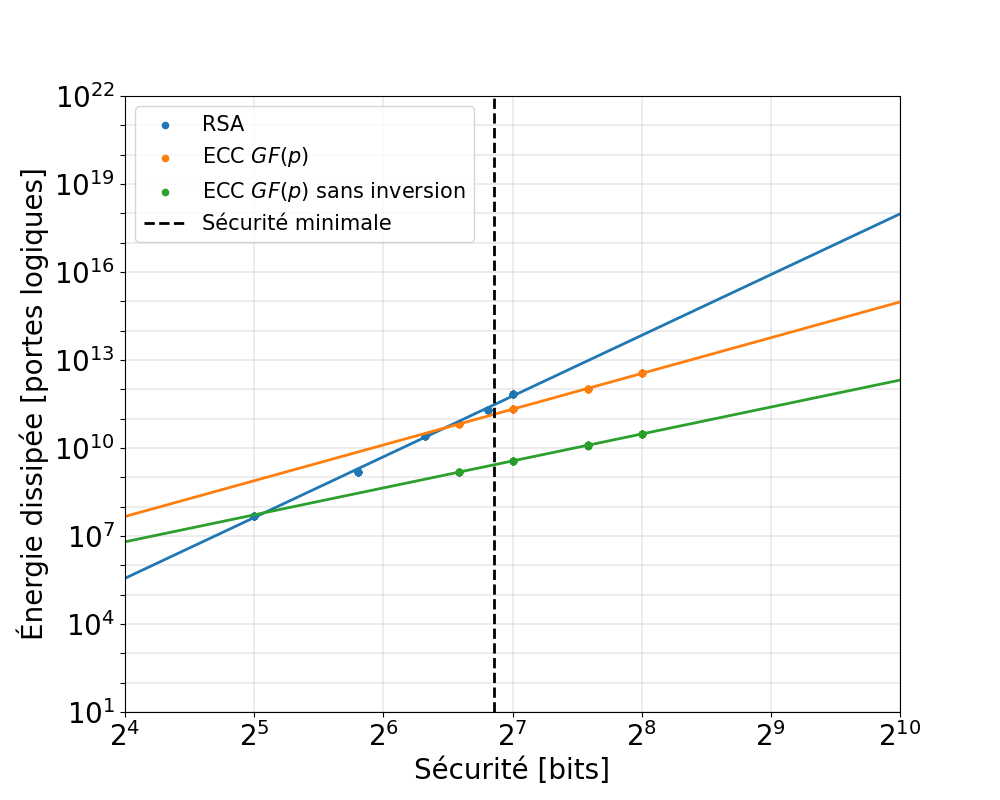
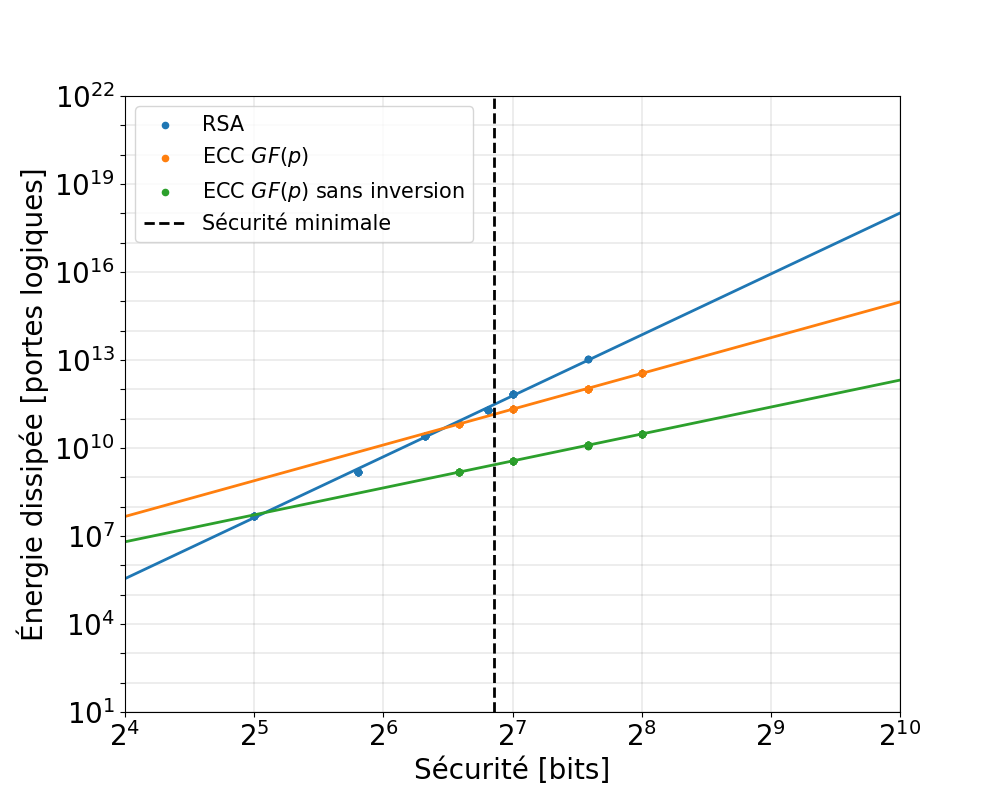
updated data

diff --git a/python_crypto/Essai_figures/rsa_exponent.py b/python_crypto/Essai_figures/rsa_exponent.py
@@ -1,0 +1,54 @@
+from prime_utils import *
+from elliptic_curve import *
+from math import comb
+from graphs import *
+import numpy as np
+
+def get_RSA(n):
+    log_n = n * np.log(2)
+    f1 = (64 / 9) ** (1 / 3)
+    f2 = (log_n) ** (1 / 3)
+    f3 = (np.log(log_n)) ** (2 / 3)
+    f4 = f1 * f2 * f3
+    return int(f4 * np.log2(np.exp(1)))
+
+if __name__ == "__main__":
+    x = []
+    y = [128, 400, 1024, 2044, 3072, 7680, 15360]
+    x_ln = []
+    y_ln = []
+    xx_ln = []
+    xy_ln = []
+
+    for i in range(len(y)):
+        x.append(get_RSA(y[i]))
+        x_ln.append(np.log(x[i]))
+        y_ln.append(np.log(y[i]))
+        #xx_ln.append(x_ln[i]*x_ln[i])
+        #xy_ln.append(x_ln[i]*y_ln[i])
+
+x_ln = np.matrix(x_ln).transpose()
+y_ln = np.matrix(y_ln).transpose()
+m_ones = np.ones(x_ln.shape)
+A = np.concatenate((x_ln, m_ones), 1)
+B = y_ln
+
+x = np.linalg.inv(A.transpose() * A) * A.transpose() * B
+a = x[0]
+b = x[1]
+
+t = np.linspace(x_ln[0,0], x_ln[len(x_ln)-1,0], 100, True)
+z = a*t + b
+
+fontsize = 20
+fig = plt.figure(figsize=(10, 8), dpi=100)
+ax = fig.add_subplot(111)
+ax.scatter(np.squeeze(np.asarray(x_ln)), np.squeeze(np.asarray(y_ln)))
+ax.plot(np.squeeze(np.asarray(t)), np.squeeze(np.asarray(z)))
+plt.show()
+
+print(a)
+print(b)
+
+print(get_RSA(1024))
+print(get_RSA(2044))

diff --git a/python_crypto/Essai_figures/result_power_decryption.py b/python_crypto/Essai_figures/result_power_decryption.py
@@ -147,7 +147,7 @@ def get_axe(base, minimum, maximum):
 
 
 rsa_data_paths = ["./data/rsa_128.txt", "./data/rsa_400.txt", "./data/rsa_1024.txt", "./data/rsa_2044.txt",
-                  "./data/rsa_3072.txt"]
+                  "./data/rsa_3072.txt", "./data/rsa_7680.txt"]
 rsa_size_v, rsa_p_v, rsa_q_v, rsa_n_v, rsa_e_v, rsa_d_v, rsa_m_v, rsa_C_v, rsa_keygen_clock_v, rsa_keygen_regs_v, \
 rsa_keygen_gates_v, rsa_encryption_clock_v, rsa_encryption_regs_v, rsa_encryption_gates_v, rsa_decryption_clock_v, \
 rsa_decryption_regs_v, rsa_decryption_gates_v = get_rsa_data(rsa_data_paths)
@@ -222,7 +222,10 @@ if __name__ == "__main__":
 
     ax.plot([np.log2(get_RSA(2048)), np.log2(get_RSA(2048))], [y_start, y_end], 'k--', linewidth=2, label='Sécurité minimale')
 
-    print(slope_rsa, slope_ecc_p)
+    print("slope_rsa: {}".format(slope_rsa))
+    print("slope_ecc_p: {}".format(slope_ecc_p))
+    print("slope_ecc_p2: {}".format(slope_ecc_p2))
+
 
     ax.legend(fontsize=fontsize * 0.75)
     # ax.set_title(str(curve), fontsize=fontsize)

diff --git a/python_crypto/Essai_figures/result_power_encryption.py b/python_crypto/Essai_figures/result_power_encryption.py
@@ -147,7 +147,7 @@ def get_axe(base, minimum, maximum):
 
 
 rsa_data_paths = ["./data/rsa_128.txt", "./data/rsa_400.txt", "./data/rsa_1024.txt", "./data/rsa_2044.txt",
-                  "./data/rsa_3072.txt"]
+                  "./data/rsa_3072.txt", "./data/rsa_7680.txt"]
 rsa_size_v, rsa_p_v, rsa_q_v, rsa_n_v, rsa_e_v, rsa_d_v, rsa_m_v, rsa_C_v, rsa_keygen_clock_v, rsa_keygen_regs_v, \
 rsa_keygen_gates_v, rsa_encryption_clock_v, rsa_encryption_regs_v, rsa_encryption_gates_v, rsa_decryption_clock_v, \
 rsa_decryption_regs_v, rsa_decryption_gates_v = get_rsa_data(rsa_data_paths)
@@ -222,7 +222,9 @@ if __name__ == "__main__":
 
     ax.plot([np.log2(get_RSA(2048)), np.log2(get_RSA(2048))], [y_start, y_end], 'k--', linewidth=2, label='Sécurité minimale')
 
-    print(slope_rsa, slope_ecc_p)
+    print("slope_rsa: {}".format(slope_rsa))
+    print("slope_ecc_p: {}".format(slope_ecc_p))
+    print("slope_ecc_p2: {}".format(slope_ecc_p2))
 
     ax.legend(fontsize=fontsize * 0.75)
     # ax.set_title(str(curve), fontsize=fontsize)

diff --git a/python_crypto/Essai_figures/result_power_keygen.py b/python_crypto/Essai_figures/result_power_keygen.py
@@ -147,7 +147,7 @@ def get_axe(base, minimum, maximum):
 
 
 rsa_data_paths = ["./data/rsa_128.txt", "./data/rsa_400.txt", "./data/rsa_1024.txt", "./data/rsa_2044.txt",
-                  "./data/rsa_3072.txt"]
+                  "./data/rsa_3072.txt", "./data/rsa_7680.txt"]
 rsa_size_v, rsa_p_v, rsa_q_v, rsa_n_v, rsa_e_v, rsa_d_v, rsa_m_v, rsa_C_v, rsa_keygen_clock_v, rsa_keygen_regs_v, \
 rsa_keygen_gates_v, rsa_encryption_clock_v, rsa_encryption_regs_v, rsa_encryption_gates_v, rsa_decryption_clock_v, \
 rsa_decryption_regs_v, rsa_decryption_gates_v = get_rsa_data(rsa_data_paths)
@@ -221,7 +221,9 @@ if __name__ == "__main__":
 
     ax.plot([np.log2(get_RSA(2048)), np.log2(get_RSA(2048))], [y_start, y_end], 'k--', linewidth=2, label='Sécurité minimale')
 
-    print(slope_rsa, slope_ecc_p)
+    print("slope_rsa: {}".format(slope_rsa))
+    print("slope_ecc_p: {}".format(slope_ecc_p))
+    print("slope_ecc_p2: {}".format(slope_ecc_p2))
 
     ax.legend(fontsize=fontsize * 0.75)
     # ax.set_title(str(curve), fontsize=fontsize)

diff --git a/python_crypto/Essai_figures/result_space_decryption.py b/python_crypto/Essai_figures/result_space_decryption.py
@@ -147,7 +147,7 @@ def get_axe(base, minimum, maximum):
 
 
 rsa_data_paths = ["./data/rsa_128.txt", "./data/rsa_400.txt", "./data/rsa_1024.txt", "./data/rsa_2044.txt",
-                  "./data/rsa_3072.txt"]
+                  "./data/rsa_3072.txt", "./data/rsa_7680.txt"]
 rsa_size_v, rsa_p_v, rsa_q_v, rsa_n_v, rsa_e_v, rsa_d_v, rsa_m_v, rsa_C_v, rsa_keygen_clock_v, rsa_keygen_regs_v, \
 rsa_keygen_gates_v, rsa_encryption_clock_v, rsa_encryption_regs_v, rsa_encryption_gates_v, rsa_decryption_clock_v, \
 rsa_decryption_regs_v, rsa_decryption_gates_v = get_rsa_data(rsa_data_paths)
@@ -222,7 +222,9 @@ if __name__ == "__main__":
 
     ax.plot([np.log2(get_RSA(2048)), np.log2(get_RSA(2048))], [y_start, y_end], 'k--', linewidth=2, label='Sécurité minimale')
 
-    print(slope_rsa, slope_ecc_p)
+    print("slope_rsa: {}".format(slope_rsa))
+    print("slope_ecc_p: {}".format(slope_ecc_p))
+    print("slope_ecc_p2: {}".format(slope_ecc_p2))
 
     ax.legend(fontsize=fontsize * 0.75)
     # ax.set_title(str(curve), fontsize=fontsize)

diff --git a/python_crypto/Essai_figures/result_time_decryption.py b/python_crypto/Essai_figures/result_time_decryption.py
@@ -147,7 +147,7 @@ def get_axe(base, minimum, maximum):
 
 
 rsa_data_paths = ["./data/rsa_128.txt", "./data/rsa_400.txt", "./data/rsa_1024.txt", "./data/rsa_2044.txt",
-                  "./data/rsa_3072.txt"]
+                  "./data/rsa_3072.txt", "./data/rsa_7680.txt"]
 rsa_size_v, rsa_p_v, rsa_q_v, rsa_n_v, rsa_e_v, rsa_d_v, rsa_m_v, rsa_C_v, rsa_keygen_clock_v, rsa_keygen_regs_v, \
 rsa_keygen_gates_v, rsa_encryption_clock_v, rsa_encryption_regs_v, rsa_encryption_gates_v, rsa_decryption_clock_v, \
 rsa_decryption_regs_v, rsa_decryption_gates_v = get_rsa_data(rsa_data_paths)
@@ -222,7 +222,9 @@ if __name__ == "__main__":
 
     ax.plot([np.log2(get_RSA(2048)), np.log2(get_RSA(2048))], [y_start, y_end], 'k--', linewidth=2, label='Sécurité minimale')
 
-    print(slope_rsa, slope_ecc_p)
+    print("slope_rsa: {}".format(slope_rsa))
+    print("slope_ecc_p: {}".format(slope_ecc_p))
+    print("slope_ecc_p2: {}".format(slope_ecc_p2))
 
     ax.legend(fontsize=fontsize * 0.75)
     # ax.set_title(str(curve), fontsize=fontsize)

diff --git a/python_crypto/Essai_figures/result_time_encryption.py b/python_crypto/Essai_figures/result_time_encryption.py
@@ -147,7 +147,7 @@ def get_axe(base, minimum, maximum):
 
 
 rsa_data_paths = ["./data/rsa_128.txt", "./data/rsa_400.txt", "./data/rsa_1024.txt", "./data/rsa_2044.txt",
-                  "./data/rsa_3072.txt"]
+                  "./data/rsa_3072.txt", "./data/rsa_7680.txt"]
 rsa_size_v, rsa_p_v, rsa_q_v, rsa_n_v, rsa_e_v, rsa_d_v, rsa_m_v, rsa_C_v, rsa_keygen_clock_v, rsa_keygen_regs_v, \
 rsa_keygen_gates_v, rsa_encryption_clock_v, rsa_encryption_regs_v, rsa_encryption_gates_v, rsa_decryption_clock_v, \
 rsa_decryption_regs_v, rsa_decryption_gates_v = get_rsa_data(rsa_data_paths)
@@ -221,7 +221,9 @@ if __name__ == "__main__":
 
     ax.plot([np.log2(get_RSA(2048)), np.log2(get_RSA(2048))], [y_start, y_end], 'k--', linewidth=2, label='Sécurité minimale')
 
-    print(slope_rsa, slope_ecc_p)
+    print("slope_rsa: {}".format(slope_rsa))
+    print("slope_ecc_p: {}".format(slope_ecc_p))
+    print("slope_ecc_p2: {}".format(slope_ecc_p2))
 
     ax.legend(fontsize=fontsize * 0.75)
     # ax.set_title(str(curve), fontsize=fontsize)

diff --git a/python_crypto/Essai_figures/result_time_keygen.py b/python_crypto/Essai_figures/result_time_keygen.py
@@ -147,7 +147,7 @@ def get_axe(base, minimum, maximum):
 
 
 rsa_data_paths = ["./data/rsa_128.txt", "./data/rsa_400.txt", "./data/rsa_1024.txt", "./data/rsa_2044.txt",
-                  "./data/rsa_3072.txt"]
+                  "./data/rsa_3072.txt", "./data/rsa_7680.txt"]
 rsa_size_v, rsa_p_v, rsa_q_v, rsa_n_v, rsa_e_v, rsa_d_v, rsa_m_v, rsa_C_v, rsa_keygen_clock_v, rsa_keygen_regs_v, \
 rsa_keygen_gates_v, rsa_encryption_clock_v, rsa_encryption_regs_v, rsa_encryption_gates_v, rsa_decryption_clock_v, \
 rsa_decryption_regs_v, rsa_decryption_gates_v = get_rsa_data(rsa_data_paths)
@@ -222,7 +222,9 @@ if __name__ == "__main__":
 
     ax.plot([np.log2(get_RSA(2048)), np.log2(get_RSA(2048))], [y_start, y_end], 'k--', linewidth=2, label='Sécurité minimale')
 
-    print(slope_rsa, slope_ecc_p)
+    print("slope_rsa: {}".format(slope_rsa))
+    print("slope_ecc_p: {}".format(slope_ecc_p))
+    print("slope_ecc_p2: {}".format(slope_ecc_p2))
 
     ax.legend(fontsize=fontsize * 0.75)
     # ax.set_title(str(curve), fontsize=fontsize)

diff --git a/python_crypto/Essai_figures/result_space_encryption.py b/python_crypto/Essai_figures/result_space_encryption.py
@@ -147,7 +147,7 @@ def get_axe(base, minimum, maximum):
 
 
 rsa_data_paths = ["./data/rsa_128.txt", "./data/rsa_400.txt", "./data/rsa_1024.txt", "./data/rsa_2044.txt",
-                  "./data/rsa_3072.txt"]
+                  "./data/rsa_3072.txt", "./data/rsa_7680.txt"]
 rsa_size_v, rsa_p_v, rsa_q_v, rsa_n_v, rsa_e_v, rsa_d_v, rsa_m_v, rsa_C_v, rsa_keygen_clock_v, rsa_keygen_regs_v, \
 rsa_keygen_gates_v, rsa_encryption_clock_v, rsa_encryption_regs_v, rsa_encryption_gates_v, rsa_decryption_clock_v, \
 rsa_decryption_regs_v, rsa_decryption_gates_v = get_rsa_data(rsa_data_paths)
@@ -221,6 +221,10 @@ if __name__ == "__main__":
 
 
     ax.plot([np.log2(get_RSA(2048)), np.log2(get_RSA(2048))], [y_start, y_end], 'k--', linewidth=2, label='Sécurité minimale')
+
+    print("slope_rsa: {}".format(slope_rsa))
+    print("slope_ecc_p: {}".format(slope_ecc_p))
+    print("slope_ecc_p2: {}".format(slope_ecc_p2))
 
     ax.legend(fontsize=fontsize * 0.75)
     # ax.set_title(str(curve), fontsize=fontsize)

diff --git a/python_crypto/Essai_figures/result_space_keygen.py b/python_crypto/Essai_figures/result_space_keygen.py
@@ -147,7 +147,7 @@ def get_axe(base, minimum, maximum):
 
 
 rsa_data_paths = ["./data/rsa_128.txt", "./data/rsa_400.txt", "./data/rsa_1024.txt", "./data/rsa_2044.txt",
-                  "./data/rsa_3072.txt"]
+                  "./data/rsa_3072.txt", "./data/rsa_7680.txt"]
 rsa_size_v, rsa_p_v, rsa_q_v, rsa_n_v, rsa_e_v, rsa_d_v, rsa_m_v, rsa_C_v, rsa_keygen_clock_v, rsa_keygen_regs_v, \
 rsa_keygen_gates_v, rsa_encryption_clock_v, rsa_encryption_regs_v, rsa_encryption_gates_v, rsa_decryption_clock_v, \
 rsa_decryption_regs_v, rsa_decryption_gates_v = get_rsa_data(rsa_data_paths)
@@ -221,6 +221,10 @@ if __name__ == "__main__":
 
 
     ax.plot([np.log2(get_RSA(2048)), np.log2(get_RSA(2048))], [y_start, y_end], 'k--', linewidth=2, label='Sécurité minimale')
+
+    print("slope_rsa: {}".format(slope_rsa))
+    print("slope_ecc_p: {}".format(slope_ecc_p))
+    print("slope_ecc_p2: {}".format(slope_ecc_p2))
 
     ax.legend(fontsize=fontsize * 0.75)
     # ax.set_title(str(curve), fontsize=fontsize)

diff --git a/python_crypto/Essai_figures/rsa.py b/python_crypto/Essai_figures/rsa.py
@@ -209,10 +209,10 @@ def rsa_15360(tries):
 
 if __name__ == "__main__":
     pass
-    # rsa_128(10)
-    # rsa_400(10)
-    # rsa_1024(10)
-    # rsa_2044(10)
-    # rsa_3072(10)
-    # rsa_7680(10)
-    # rsa_15360(10)
+    rsa_128(10)
+    rsa_400(10)
+    rsa_1024(10)
+    rsa_2044(10)
+    rsa_3072(10)
+    rsa_7680(10)
+    rsa_15360(10)
